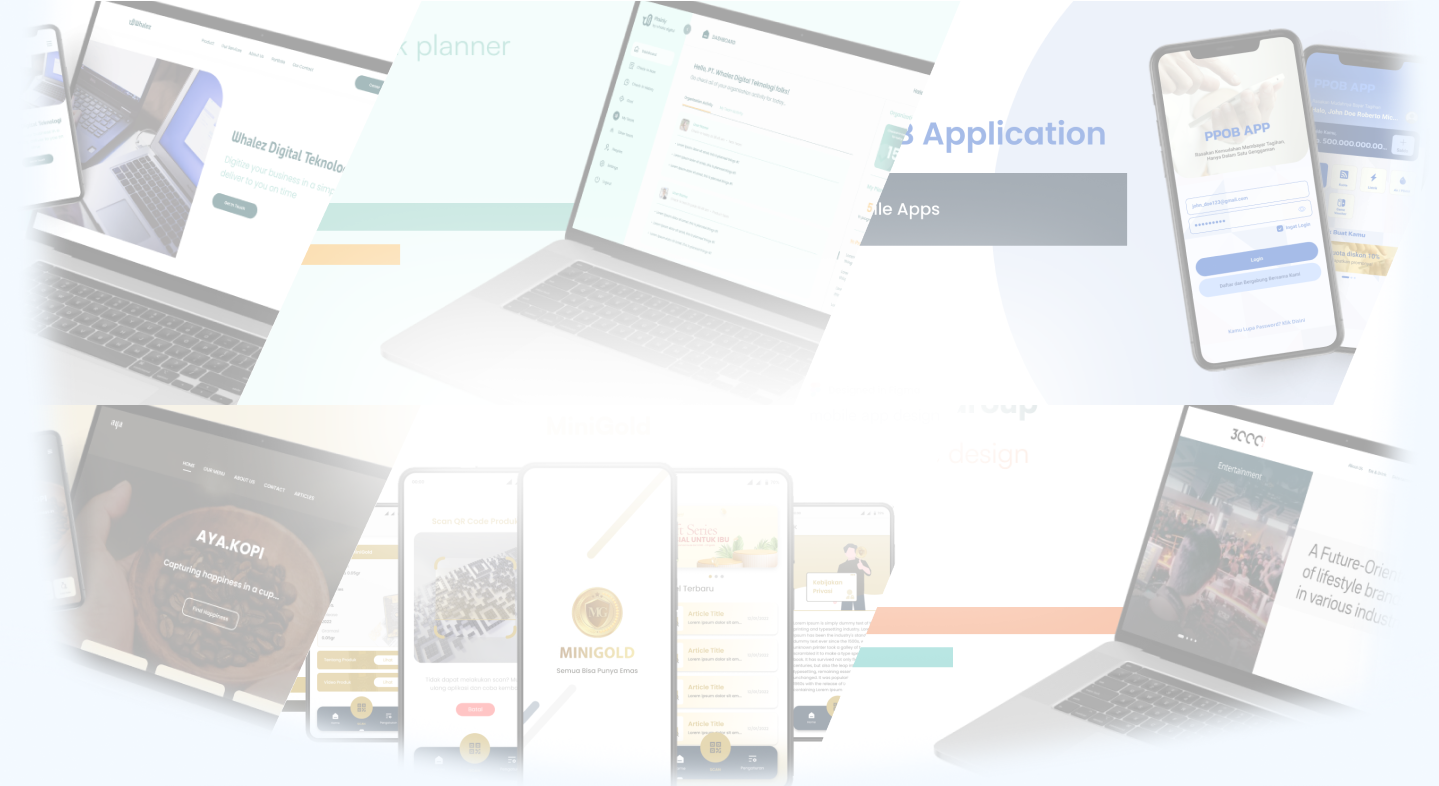
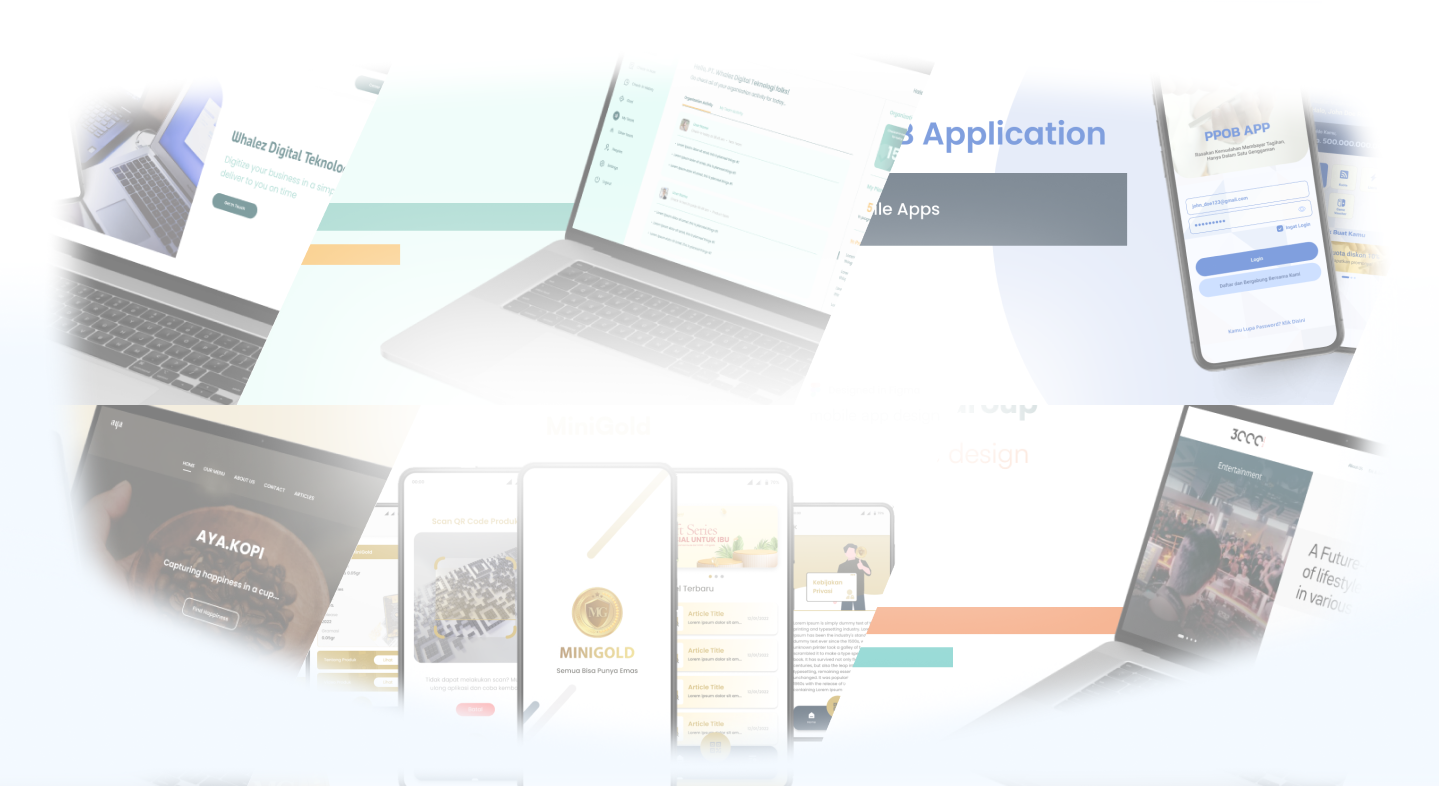
Fixing whole UI padding, tidy up the code, changing portfolio BG

diff --git a/styling.css b/styling.css
@@ -1,7 +1,7 @@
 /* STYLING VARIABLE */
 :root {
     /* COLOR SCHEME */
-    --baseColor: #EBF6FF;
+    --baseColor: #F3F9FF;
     --primaryColor: #043554;
     --secondaryColor: #027BCE;
     --blackColor: #474747;
@@ -39,7 +39,7 @@
 
 
 
-/* STYLING FOR WHOLE BODY */
+/* STYLING FOR WHOLE BODY DESKTOP VIEW*/
 html,
 body {
     scroll-behavior: smooth;
@@ -50,6 +50,11 @@ body {
 
 a {
     text-decoration: none;
+}
+
+.desktop-view {
+    display: block;
+    /* padding: 20px; */
 }
 /* END */
 
@@ -148,7 +153,7 @@ h1 {
     display: flex;
     justify-content: center;
     margin: 0 auto;
-    padding: 3rem; /* Gunakan padding responsif */
+    /* padding: 3rem; Gunakan padding responsif */
 }
 
 #heroSection .container-hero {
@@ -156,6 +161,7 @@ h1 {
     width: 100%; /* Lebar kontainer */
     max-width: 1200px;   
     justify-content: center;
+    margin-top: 4%;
 }
 
 #heroSection .container-hero button {
@@ -254,14 +260,14 @@ h1 {
     }
 }
 
-.container-about {
+#aboutSection .container-about {
     text-align: center;  /* Memusatkan teks di dalam elemen */
     width: 70%; /* Lebar kontainer */
     max-width: 1200px;   
     justify-content: center;
 }
 
-.container-about .aboutMe {
+#aboutSection .container-about .aboutMe {
     margin-top: 90px;
     /* margin-left: -410px; */
     /* width: 380%; */
@@ -269,7 +275,7 @@ h1 {
     margin-bottom: 20px;
 }
 
-.container-about .aboutMe p {
+#aboutSection .container-about .aboutMe p {
     margin-top: -10px;
     font-family: var(--regularFont);
     font-size: var(--fontBase);
@@ -277,14 +283,14 @@ h1 {
     color: var(--blackColor);
 }
 
-.container-about .aboutMe p span {
+#aboutSection .container-about .aboutMe p span {
     font-family: var(--regularFont);
     font-size: var(--fontBase);
     font-weight: var(--semibold);
     color: var(--secondaryColor);
 }
 
-.container-about .aboutMe img {
+#aboutSection .container-about .aboutMe img {
     margin-top: -30px;
     width: 120px;
     height: auto;
@@ -292,12 +298,12 @@ h1 {
     object-fit: cover;
 }
 
-.container-about .skills {
+#aboutSection .container-about .skills {
     margin-top: 20px;
     overflow: hidden;
 }
 
-.container-about .skills .skills-carousel {
+#aboutSection .container-about .skills .skills-carousel {
     display: flex;
     animation: scroll 30s linear infinite; /* Animasi scroll terus-menerus */
     align-items: flex-end; /* Menyelaraskan gambar rata ke bawah container */
@@ -312,7 +318,7 @@ h1 {
     }
 }
 
-.container-about .skills img {
+#aboutSection .container-about .skills img {
     width: 40px;
     height: auto;
     padding: 20px;
@@ -323,7 +329,7 @@ h1 {
 
 
 /* STYLING FOR EXPERIENCESECTION */
-#experienceSection {
+#experienceSection  {
     background-image: url(img_asset/experienceSection.png);
     background-repeat: no-repeat;
     min-height: 100vh;
@@ -339,7 +345,7 @@ h1 {
     padding: 3rem; /* Gunakan padding responsif */
 }
 
-.container-exp {
+#experienceSection .container-exp {
     text-align: center;  /* Memusatkan teks di dalam elemen */
     width: 70%;        /* Lebar kontainer */
     max-width: 1200px;
@@ -347,7 +353,7 @@ h1 {
     /* justify-content: center; */
 }
 
-.container-exp .list-exp {
+#experienceSection .container-exp .list-exp {
     display: flex;
     align-items: center;
     justify-content: space-between;
@@ -358,7 +364,7 @@ h1 {
     /* margin: auto; */
 }
 
-.container-exp .list-exp .line {
+#experienceSection .container-exp .list-exp .line {
     position: absolute;
     top: 36%;
     /* width: 100%; */
@@ -369,7 +375,7 @@ h1 {
     z-index: -1;
 }
 
-.container-exp .list-exp .dot-container {
+#experienceSection .container-exp .list-exp .dot-container {
     display: flex;
     flex-direction: column;
     align-items: center;
@@ -380,7 +386,7 @@ h1 {
     margin-left: -20px;
 }
 
-.container-exp .list-exp .dot-container .dot {
+#experienceSection .container-exp .list-exp .dot-container .dot {
     width: 24px;
     height: 24px;
     background-color: var(--baseColor);
@@ -393,7 +399,7 @@ h1 {
     z-index: 1;
 }
 
-.container-exp .list-exp .dot-container .dot::after {
+#experienceSection .container-exp .list-exp .dot-container .dot::after {
     content: "";
     width: 19px;
     height: 19px;
@@ -405,18 +411,18 @@ h1 {
     transform: translate(-50%, -50%);
 }
 
-.container-exp .list-exp .dot-container .text {
+#experienceSection .container-exp .list-exp .dot-container .text {
     width: 350px;
     word-wrap: break-word;
     font-size: var(--fontBase);
 }
 
-.container-exp .list-exp .dot-container .text.top {
+#experienceSection .container-exp .list-exp .dot-container .text.top {
     margin-bottom: 10px;
     color: var(--blackColor);
 }
 
-.container-exp .list-exp .dot-container .text.bottom {
+#experienceSection .container-exp .list-exp .dot-container .text.bottom {
     margin-top: 20px;
     font-size: var(--fontBase);
     font-family: var(--regularFont);
@@ -424,11 +430,11 @@ h1 {
     color: var(--secondaryColor);
 }
 
-.container-exp .list-exp .dot-container .text.bottom a {
+#experienceSection .container-exp .list-exp .dot-container .text.bottom a {
     color: var(--secondaryColor);
 }
 
-.expDetail {
+#experienceSection .expDetail {
     display: none;
     position: absolute;
     background-color: var(--secondaryColor);
@@ -452,17 +458,17 @@ h1 {
     display: block;
 }
 
-.container-exp p {
+#experienceSection .container-exp p {
     margin-top: 180px;
 }
 
-.container-exp p a {
+#experienceSection .container-exp p a {
     font-size: var(--fontBase);
     color: var(--neutralColor);
     font-weight: var(--regular);
 }
 
-.container-exp p a:after {
+#experienceSection .container-exp p a:after {
     content: '';
     display: block;
     margin: auto;
@@ -472,12 +478,12 @@ h1 {
     transition: width .5s ease, background-color .5s ease;
 }
 
-.container-exp p a:hover {
+#experienceSection .container-exp p a:hover {
     font-weight: var(--medium);
     color: var(--primaryColor);
 }
 
-.container-exp p a:hover:after {
+#experienceSection .container-exp p a:hover:after {
     width: 10%;
     background: var(--primaryColor);
     margin-top: 4px;
@@ -506,7 +512,7 @@ h1 {
     padding: 3rem; /* Gunakan padding responsif */
 }
 
-.container-porto {
+#portfolioSection .container-porto {
     text-align: center;  /* Memusatkan teks di dalam elemen */
     width: 70%;        /* Lebar kontainer */
     max-width: 1200px;
@@ -514,7 +520,7 @@ h1 {
     /* justify-content: center; */
 }
 
-.container-porto h1 {
+#portfolioSection .container-porto h1 {
     font-family: var(--mainFont);
     font-size: var(--fontGiant);
     color: var(--primaryColor);
@@ -522,7 +528,7 @@ h1 {
     margin-bottom: 15px;
 }
 
-.container-porto a {
+#portfolioSection .container-porto a {
     margin-bottom: -100px;
     font-family: var(--regularFont);
     font-size: var(--fontHeading);
@@ -530,7 +536,7 @@ h1 {
     font-weight: var(--light);
 }
 
-.container-porto a:after {
+#portfolioSection .container-porto a:after {
     content: '';
     display: block;
     margin: auto;
@@ -540,12 +546,12 @@ h1 {
     transition: width .5s ease, background-color .5s ease;
 }
 
-.container-porto a:hover {
+#portfolioSection .container-porto a:hover {
     font-weight: var(--medium);
     color: var(--secondaryColor);
 }
 
-.container-porto a:hover:after {
+#portfolioSection .container-porto a:hover:after {
     width: 50%;
     background: var(--secondaryColor);
     margin-top: 4px;
@@ -571,14 +577,14 @@ h1 {
     padding: 3rem; /* Gunakan padding responsif */
 }
 
-.container-footer {
+#footerSection .container-footer {
     width: 70%;        /* Lebar kontainer */
     max-width: 1200px;
-    margin-top: 120px;
+    margin-top: 50px;
     /* justify-content: center; */
 }
 
-.container-footer h1 {
+#footerSection .container-footer h1 {
     font-family: var(--mainFont);
     font-size: var(--fontHeading);
     color: var(--primaryColor);
@@ -587,27 +593,17 @@ h1 {
     margin-left: 65px;
 }
 
-/* .container-footer p {
-    font-size: var(--fontBase);
-    background: -webkit-linear-gradient(#043554, #b4ced0);
-  -webkit-background-clip: text;
-  -webkit-text-fill-color: transparent;
-    font-weight: var(--regular);
-    text-align: center;
-    margin-top: 150px;
-} */
-
-.container-footer ul li {
+#footerSection .container-footer ul li {
     display: inline-block;
     margin-right: 20px;
     list-style-type: none;
 }
 
-.container-footer ul li i {
+#footerSection .container-footer ul li i {
     color: var(--primaryColor);
 }
 
-.container-footer ul li i:hover {
+#footerSection .container-footer ul li i:hover {
     color: var(--secondaryColor);
 }
 
@@ -616,11 +612,6 @@ h1 {
 
 
 /* STYLING FOR MOBILEVIEW */
-.desktop-view {
-    display: block;
-    padding: 20px;
-}
-
 .mobile-view {
     display: none;
     justify-content: center; /* Rata tengah horizontal */
